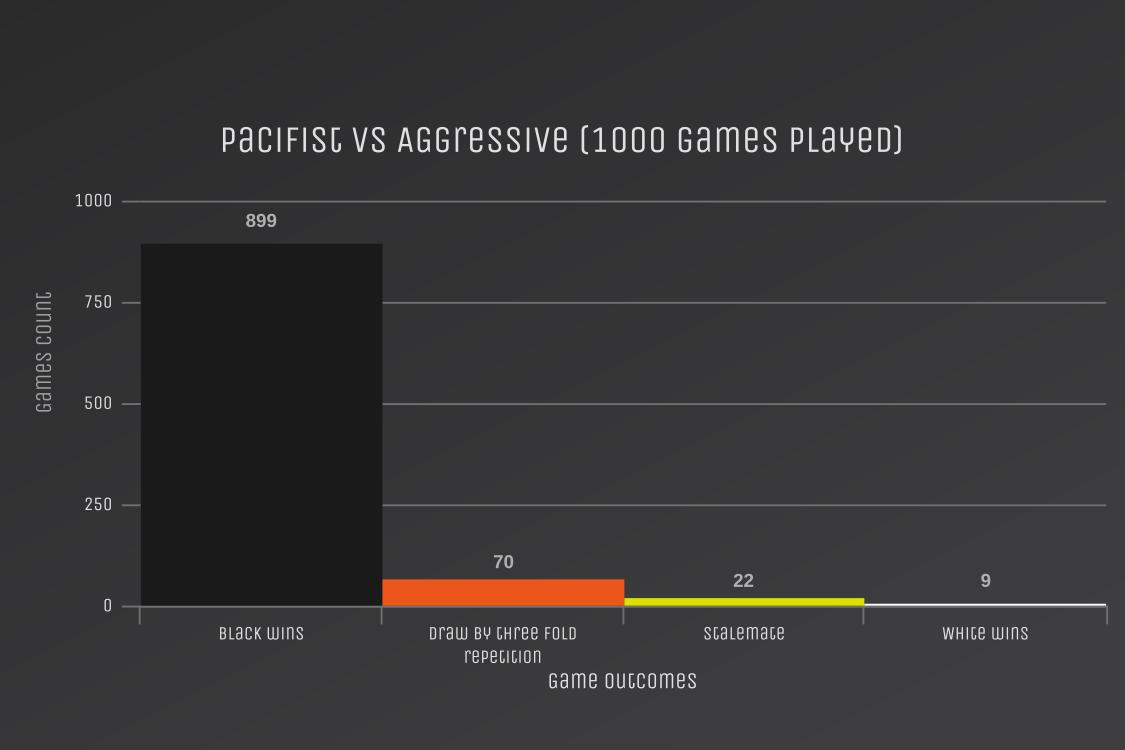
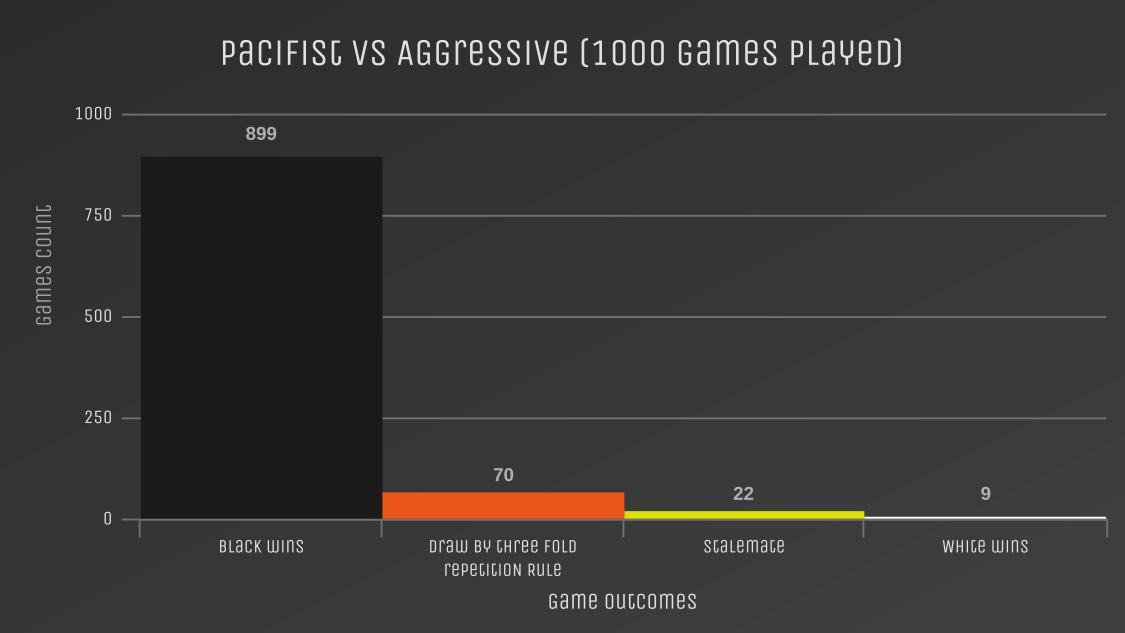
docs: update assets and README.md
- fixed few typos in assets/*.png files
- added 'how to run` section in README.md

diff --git a/README.md b/README.md
@@ -45,7 +45,6 @@ In the example below, the aggressive player was black, and it won the game in 18
 <a href="url"><img src="https://raw.githubusercontent.com/Rqnsom/pacifist-chess-simulation/main/assets/p_vs_a_black_won_Ng4.gif" align="center" height=auto width=100% border="black"></a>
 
 <a href="url"><img src="https://raw.githubusercontent.com/Rqnsom/pacifist-chess-simulation/main/assets/p_vs_a.png" align="center" height=auto width=100% border="black"></a>
-
 <hr \>
 
 ### Aggressive player vs Aggressive player
@@ -55,9 +54,9 @@ Two random AI players that both prefer *capture* turns? Would such a game end qu
 <a href="url"><img src="https://raw.githubusercontent.com/Rqnsom/pacifist-chess-simulation/main/assets/a_vs_a_mate_not_possible_Kxe5.gif" align="center" height=auto width=100% border="black"></a>
 
 Well. Unfortunately, most games with aggressive players end up with a draw. Too aggressive and too dumb to be able to win the game more often.
-<hr \>
 
 <a href="url"><img src="https://raw.githubusercontent.com/Rqnsom/pacifist-chess-simulation/main/assets/a_vs_a.png" align="center" height=auto width=100% border="black"></a>
+<hr \>
 
 ### SemiPacifist player vs SemiPacifist player
 
@@ -102,3 +101,31 @@ These two Rust crates below were created just for this project, but now could be
 > But why didn't you use any existing chess tools or libraries for this funny project?
 
 That was not the point! The fastest route is not always the best one. The main goal was to learn Rust! And doing the whole chess thing from scratch was an interesting challenge and a jolly adventure. 🙃
+
+<hr \>
+
+## How to run
+```bash
+# Build
+cargo build --release  # Find binary in target/release directory
+
+# Running tests
+cargo test
+cargo clippy
+```
+
+Snippet from the help usage text:
+```bash
+√ ~/pacifist-chess-simulation/target/release (main) $ ./pacifist-chess-simulation --help
+USAGE:
+    pacifist-chess-simulation [OPTIONS]
+
+OPTIONS:
+    -b, --player-black <PLAYER_BLACK>
+            White player mode: Random/Pacifist/Aggressive/SemiPacifist [default: Pacifist]
+    -t, --animation-frame-duration <ANIMATION_FRAME_DURATION>
+            Animation frame duration in microseconds (animation lasts 20 frames) [default: 50000]
+    -w, --player-white <PLAYER_WHITE>
+            White player mode: Random/Pacifist/Aggressive/SemiPacifist [default: Pacifist]
+    [...]
+```
